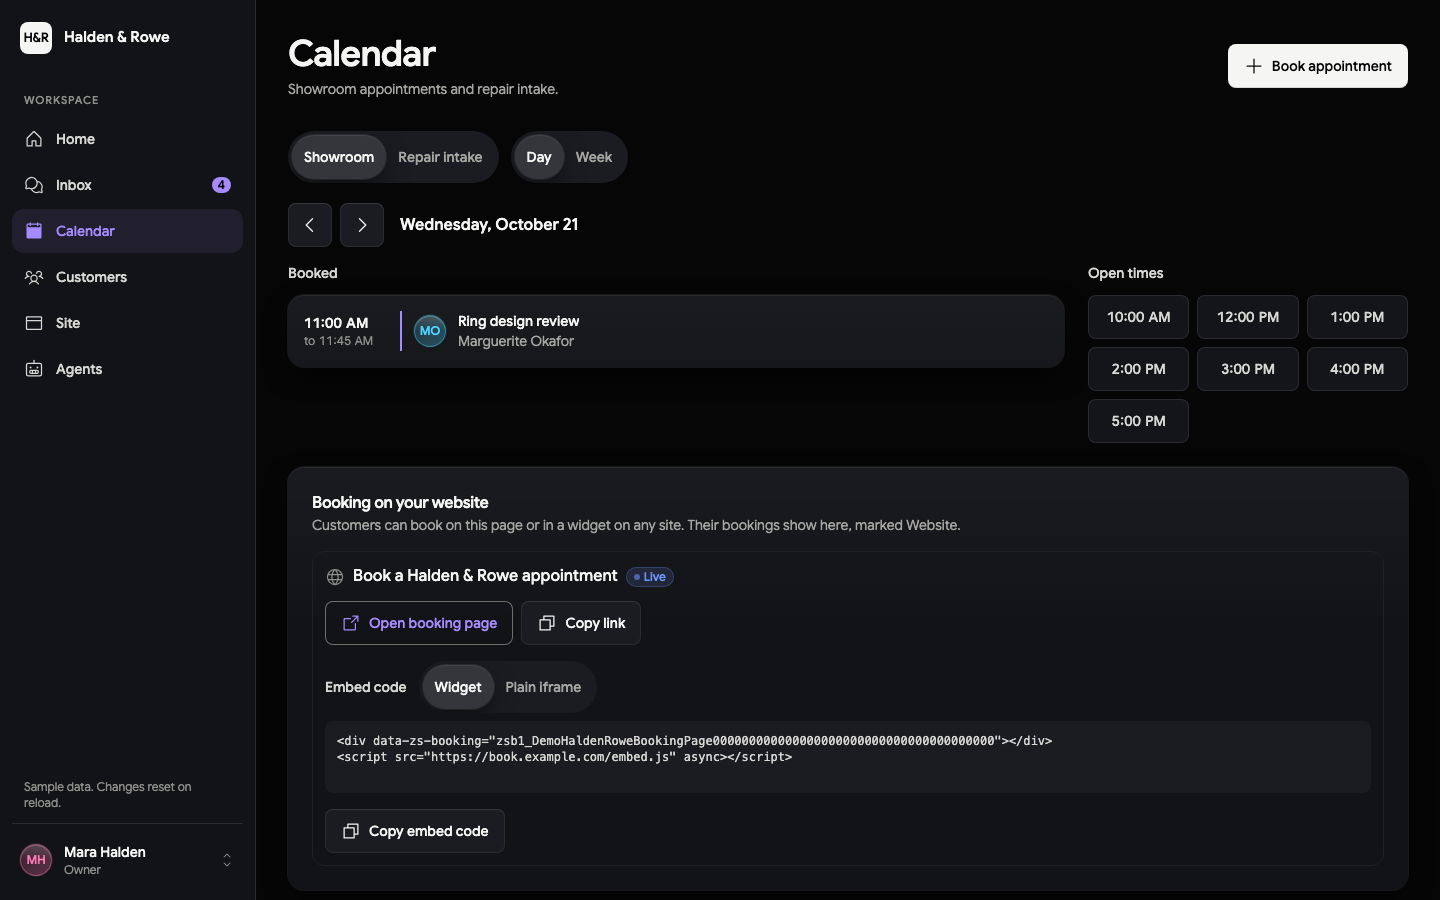
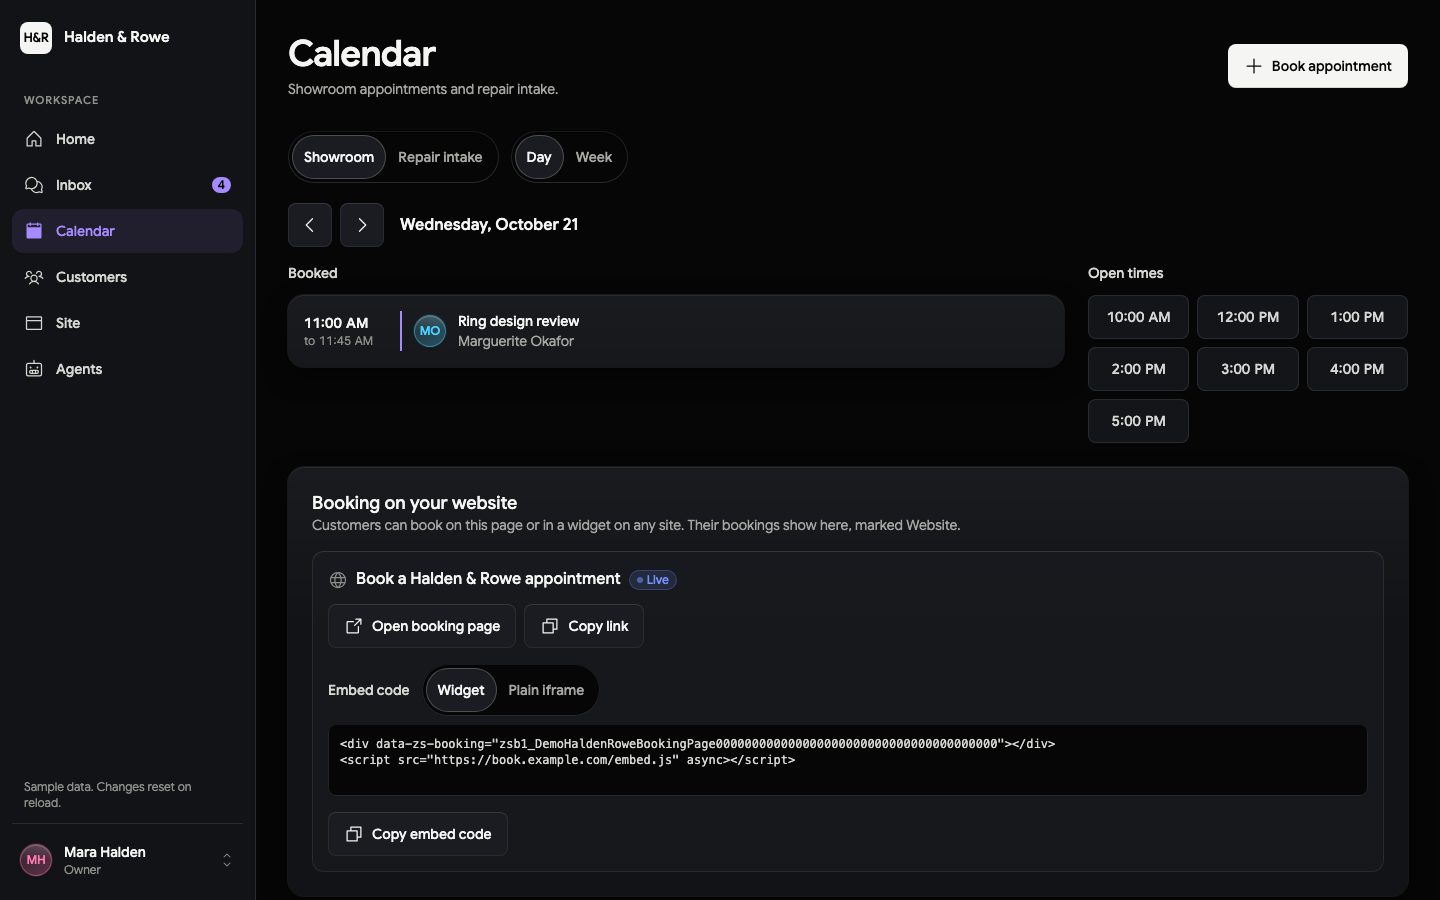
fix(dashboard): dark dialog backdrop and round-2 audit fixes
Dialog overlay was a white wash on black; it is now a dark blur with a
ringed, top-lit sheet. One white primary per region (Connections and the
composer use secondary). Revenue sources show last week inline. Wells for
segmented tracks and the embed code, beam corners follow the card radius,
card titles at the 18px role, theme colour #060607, fresh evidence.

diff --git a/apps/dashboard/src/components/home/home-view.tsx b/apps/dashboard/src/components/home/home-view.tsx
@@ -87,7 +87,7 @@ function SourceRows({ label, bySource }: {
   bySource: { source: keyof typeof ORIGIN_LABELS; thisWeek: number; lastWeek: number }[];
 }) {
   return (
-    <ul className="space-y-0.5 border-t border-border-soft pt-2 text-xs" aria-label={`${label} by source`}>
+    <ul className="space-y-1.5 border-t border-border-soft pt-2 text-xs" aria-label={`${label} by source`}>
       {bySource.map((item) => (
         <li key={item.source} className="flex items-baseline justify-between gap-2" data-source={item.source}>
           <span className="min-w-0 text-fg-2">{ORIGIN_LABELS[item.source]}</span>
@@ -137,13 +137,12 @@ function RevenueTile({ data }: { data: HomeResults }) {
             <li key={item.source} data-source={item.source}>
               <div className="flex items-baseline justify-between gap-3 text-sm">
                 <span className="text-fg-2">{revenueSourceLabel(item.source)}</span>
-                <span className="tabular font-medium text-fg">{formatMinor(item.thisWeek, main.currency)}</span>
+                <span className="tabular font-medium text-fg">{formatMinor(item.thisWeek, main.currency)} <span className="text-xs font-normal text-meta">last {formatMinor(item.lastWeek, main.currency)}</span></span>
               </div>
               <div className="mt-1 space-y-0.5" aria-hidden>
                 <div className="h-1.5 rounded-pill bg-accent" style={{ width: `${(item.thisWeek / maxSource) * 100}%` }} />
                 <div className="h-1 rounded-pill bg-fg/20" style={{ width: `${(item.lastWeek / maxSource) * 100}%` }} />
               </div>
-              <p className="sr-only">Same time last week {formatMinor(item.lastWeek, main.currency)}</p>
             </li>
           ))}
         </ul>
@@ -277,7 +276,7 @@ function ChecklistCard() {
                 <span className="sr-only">{item.status === "ok" ? "Connected" : "Needs action"}</span>
               </div>
               {item.actionLabel ? (
-                <Button asChild variant={item.status === "ok" ? "secondary" : "primary"} className="shrink-0">
+                <Button asChild variant="secondary" className="shrink-0">
                   <Link href="/account/connections">{item.actionLabel}</Link>
                 </Button>
               ) : null}

diff --git a/apps/dashboard/src/components/calendar/booking-page-card.tsx b/apps/dashboard/src/components/calendar/booking-page-card.tsx
@@ -47,21 +47,18 @@ function PageRow({ page }: { page: BookingPageSummary }) {
     }
   };
   return (
-    <li data-testid="booking-page" className="rounded-md border border-border-soft p-3">
+    <li data-testid="booking-page" className="rounded-md bg-surface-warm/60 p-4 shadow-[inset_0_1px_0_rgba(255,255,255,0.05),inset_0_0_0_1px_var(--border)]">
       <div className="flex flex-wrap items-center gap-2">
         <Globe size={20} aria-hidden className="text-meta" />
         <p className="font-medium text-fg">{page.title}</p>
         <Badge tone={page.published ? "success" : "neutral"} live={page.published}>{page.published ? "Live" : "Not published"}</Badge>
       </div>
       <div className="mt-3 flex flex-wrap gap-2">
-        <a
-          href={page.bookingUrl}
-          target="_blank"
-          rel="noreferrer noopener"
-          className="inline-flex min-h-11 items-center gap-2 rounded-sm px-4 text-sm font-medium text-accent shadow-[inset_0_0_0_1px_var(--border-strong)] hover:bg-surface-warm"
-        >
-          <ArrowSquareOut size={20} aria-hidden />Open booking page
-        </a>
+        <Button asChild variant="secondary">
+          <a href={page.bookingUrl} target="_blank" rel="noreferrer noopener">
+            <ArrowSquareOut aria-hidden />Open booking page
+          </a>
+        </Button>
         <Button variant="secondary" onClick={() => copy(page.bookingUrl, "booking link")}><Copy aria-hidden />Copy link</Button>
       </div>
       <div className="mt-4">
@@ -76,7 +73,7 @@ function PageRow({ page }: { page: BookingPageSummary }) {
           rows={3}
           value={page[snippet]}
           onFocus={(event) => event.currentTarget.select()}
-          className="w-full resize-none rounded-sm bg-surface-warm p-3 font-mono text-xs text-fg-2"
+          className="w-full resize-none rounded-sm bg-bg p-3 font-mono shadow-well text-xs text-fg-2"
         />
         <Button variant="secondary" className="mt-2" onClick={() => copy(page[snippet], "embed code")}><Copy aria-hidden />Copy embed code</Button>
       </div>

diff --git a/apps/dashboard/src/components/inbox/inbox-view.tsx b/apps/dashboard/src/components/inbox/inbox-view.tsx
@@ -319,7 +319,7 @@ function Composer({ thread }: { thread: ThreadDetail }) {
       {save.isError ? <ErrorNote error={save.error} /> : null}
       <div className="flex flex-wrap items-center justify-between gap-3">
         <p id="reply-help" className="text-xs text-meta">{help}</p>
-        <Button type="submit" disabled={save.isPending} aria-busy={save.isPending}>Save draft</Button>
+        <Button type="submit" variant="secondary" disabled={save.isPending} aria-busy={save.isPending}>Save draft</Button>
       </div>
     </form>
   );
@@ -410,7 +410,7 @@ export function InboxView({ selectedId }: { selectedId: string | null }) {
               <ThreadPane id={selectedId} />
             </>
           ) : (
-            <div className="flex min-h-[520px] flex-col items-center justify-center gap-3 rounded-lg bg-surface/50 px-6 text-center shadow-[inset_0_0_0_1px_var(--border-soft)]">
+            <div className="flex min-h-[520px] flex-col items-center justify-center gap-3 rounded-lg bg-lit px-6 text-center shadow-card">
               <span aria-hidden className="flex size-12 items-center justify-center rounded-pill bg-accent/12 text-accent ring-1 ring-inset ring-accent/25"><ChatCircleDots size={24} weight="fill" /></span>
               <p className="font-medium text-fg">Pick a conversation</p>
               <p className="max-w-64 text-sm text-muted">Select a conversation to read it and reply.</p>

diff --git a/apps/dashboard/src/components/ui/border-beam.tsx b/apps/dashboard/src/components/ui/border-beam.tsx
@@ -8,7 +8,7 @@ import type { CSSProperties } from "react";
 import { useReducedMotionLive } from "@/lib/motion";
 import { cn } from "@/lib/utils";
 
-export function BorderBeam({ size = 80, duration = 8, colorFrom = "var(--success)", colorTo = "#a58bff", borderWidth = 1, className }: {
+export function BorderBeam({ size = 80, duration = 8, colorFrom = "var(--success)", colorTo = "var(--accent)", borderWidth = 1, className }: {
   size?: number;
   duration?: number;
   colorFrom?: string;
@@ -25,7 +25,7 @@ export function BorderBeam({ size = 80, duration = 8, colorFrom = "var(--success
     >
       <motion.div
         className={cn("absolute aspect-square bg-linear-to-l from-(--color-from) via-(--color-to) to-transparent", className)}
-        style={{ width: size, offsetPath: `rect(0 auto auto 0 round ${size}px)`, "--color-from": colorFrom, "--color-to": colorTo } as MotionStyle}
+        style={{ width: size, offsetPath: "rect(0 auto auto 0 round var(--radius-lg))", "--color-from": colorFrom, "--color-to": colorTo } as MotionStyle}
         initial={{ offsetDistance: "0%" }}
         animate={{ offsetDistance: ["0%", "100%"] }}
         transition={{ repeat: Infinity, ease: "linear", duration }}

diff --git a/apps/dashboard/src/components/ui/segmented.tsx b/apps/dashboard/src/components/ui/segmented.tsx
@@ -22,7 +22,7 @@ export function Segmented<T extends string>({ label, value, options, onChange, c
   const transition = useLayoutTransition();
   return (
     <LayoutGroup id={id}>
-      <div role="group" aria-label={label} className={cn("inline-flex max-w-full overflow-x-auto rounded-pill bg-surface-warm p-1", className)}>
+      <div role="group" aria-label={label} className={cn("inline-flex max-w-full overflow-x-auto rounded-pill bg-bg p-1 shadow-well", className)}>
         {options.map((option) => {
           const active = value === option.value;
           return (
@@ -39,7 +39,7 @@ export function Segmented<T extends string>({ label, value, options, onChange, c
               )}
             >
               {active ? (
-                <motion.span layoutId="pill" transition={transition} aria-hidden className="absolute inset-0 rounded-pill bg-fg/12 shadow-card" />
+                <motion.span layoutId="pill" transition={transition} aria-hidden className="absolute inset-0 rounded-pill bg-surface-warm ring-1 ring-inset ring-border-strong/60" />
               ) : null}
               <span className="relative">{option.label}</span>
             </button>

diff --git a/apps/dashboard/src/components/calendar/calendar-view.tsx b/apps/dashboard/src/components/calendar/calendar-view.tsx
@@ -7,7 +7,6 @@ import { Segmented } from "@/components/ui/segmented";
 import { Avatar } from "@/components/ui/avatar";
 import { Badge } from "@/components/ui/badge";
 import { Button } from "@/components/ui/button";
-import { Card } from "@/components/ui/card";
 import { EmptyState, ErrorNote, IncompleteNote, LoadingRows, PageHeader } from "@/components/ui/states";
 import { bookingCustomerName, type BookingView, type ResourceSummary } from "@/lib/api";
 import { resourceLabel } from "@/lib/resources";
@@ -206,9 +205,7 @@ export function CalendarView() {
 
       <BookingPageCard />
 
-      <Card className="mt-6 bg-surface-warm shadow-none">
-        <p className="text-sm text-muted">Times show in {resource.timeZone.split("/").pop()?.replaceAll("_", " ")} time. A slot is only booked once it is saved, so two people can never take the same time.</p>
-      </Card>
+      <p className="mt-6 text-sm text-meta">Times show in {resource.timeZone.split("/").pop()?.replaceAll("_", " ")} time. A slot is only booked once it is saved, so two people can never take the same time.</p>
 
       <BookingDialog
         open={dialog.open}

diff --git a/apps/dashboard/src/components/ui/dialog.tsx b/apps/dashboard/src/components/ui/dialog.tsx
@@ -26,10 +26,10 @@ export function DialogContent({
   const opener = useRef<HTMLElement | null>(null);
   return (
     <DialogPrimitive.Portal>
-      <DialogPrimitive.Overlay className="fixed inset-0 z-50 bg-fg/30 data-[state=open]:animate-enter" />
+      <DialogPrimitive.Overlay className="fixed inset-0 z-50 bg-bg/80 backdrop-blur-xs data-[state=open]:animate-enter" />
       <DialogPrimitive.Content
         className={cn(
-          "fixed inset-x-0 bottom-0 z-50 flex max-h-[92dvh] flex-col rounded-t-lg bg-surface shadow-raised pb-safe data-[state=open]:animate-enter",
+          "fixed inset-x-0 bottom-0 z-50 flex max-h-[92dvh] flex-col rounded-t-lg bg-lit shadow-raised ring-1 ring-inset ring-border pb-safe data-[state=open]:animate-enter",
           "sm:inset-x-auto sm:bottom-auto sm:top-1/2 sm:left-1/2 sm:w-[min(560px,calc(100vw-48px))] sm:-translate-x-1/2 sm:-translate-y-1/2 sm:rounded-lg",
           className,
         )}

diff --git a/apps/dashboard/src/components/customers/pipeline-board.tsx b/apps/dashboard/src/components/customers/pipeline-board.tsx
@@ -210,11 +210,11 @@ function StageBoard({ pipeline }: { pipeline: PipelineSummary }) {
               onFocus={revealOnFocus}
               className={cn(
                 "flex min-h-11 shrink-0 items-center gap-2 rounded-pill px-4 text-sm font-medium transition-quick",
-                active ? "bg-fg text-bg" : "bg-surface text-fg-2 shadow-ring hover:bg-surface-warm",
+                active ? "bg-accent/14 text-accent ring-1 ring-inset ring-accent/25" : "bg-surface text-fg-2 shadow-ring hover:bg-surface-warm",
               )}
             >
               {stage.name}
-              <span className={cn("tabular text-xs", active ? "text-bg/70" : "text-meta")}>{count}</span>
+              <span className={cn("tabular text-xs", active ? "text-accent/80" : "text-meta")}>{count}</span>
             </button>
           );
         })}

diff --git a/apps/dashboard/src/components/ui/card.tsx b/apps/dashboard/src/components/ui/card.tsx
@@ -25,7 +25,7 @@ export function CardHeader({ className, ...props }: ComponentProps<"div">) {
 }
 
 export function CardTitle({ className, ...props }: ComponentProps<"h2">) {
-  return <h2 className={cn("text-base font-semibold tracking-tight text-fg", className)} {...props} />;
+  return <h2 className={cn("text-lg leading-6 font-medium text-fg", className)} {...props} />;
 }
 
 export function CardDescription({ className, ...props }: ComponentProps<"p">) {

diff --git a/apps/dashboard/src/app/manifest.ts b/apps/dashboard/src/app/manifest.ts
@@ -10,8 +10,8 @@ export default function manifest(): MetadataRoute.Manifest {
     scope: "/",
     display: "standalone",
     orientation: "portrait",
-    background_color: "#0a0a0a",
-    theme_color: "#0a0a0a",
+    background_color: "#060607",
+    theme_color: "#060607",
     categories: ["business", "productivity"],
     icons: [
       { src: "/icons/icon-192.png", sizes: "192x192", type: "image/png", purpose: "any" },

diff --git a/apps/dashboard/src/app/layout.tsx b/apps/dashboard/src/app/layout.tsx
@@ -33,8 +33,8 @@ export const viewport: Viewport = {
   initialScale: 1,
   viewportFit: "cover",
   themeColor: [
-    { media: "(prefers-color-scheme: light)", color: "#0a0a0a" },
-    { media: "(prefers-color-scheme: dark)", color: "#0a0a0a" },
+    { media: "(prefers-color-scheme: light)", color: "#060607" },
+    { media: "(prefers-color-scheme: dark)", color: "#060607" },
   ],
 };
 

diff --git a/design/DESIGN.md b/design/DESIGN.md
@@ -116,8 +116,8 @@ tabular figures (`tabular` utility) so counts do not shift as they change.
 ## Layout
 
 A 256px sidebar on wide screens; a six-tab bar with labels on phones. Content sits on a
-12-column grid at `lg`. Touch targets are at least 44px. Home puts the three week results
-first: leads and bookings stack beside the taller revenue tile on a wide screen and sit side
+12-column grid at `lg`. Touch targets are at least 44px. Home opens with a Needs you row,
+then the three week results: leads and bookings stack beside the taller revenue tile on a wide screen and sit side
 by side on a phone.
 
 ## Elevation & Depth
